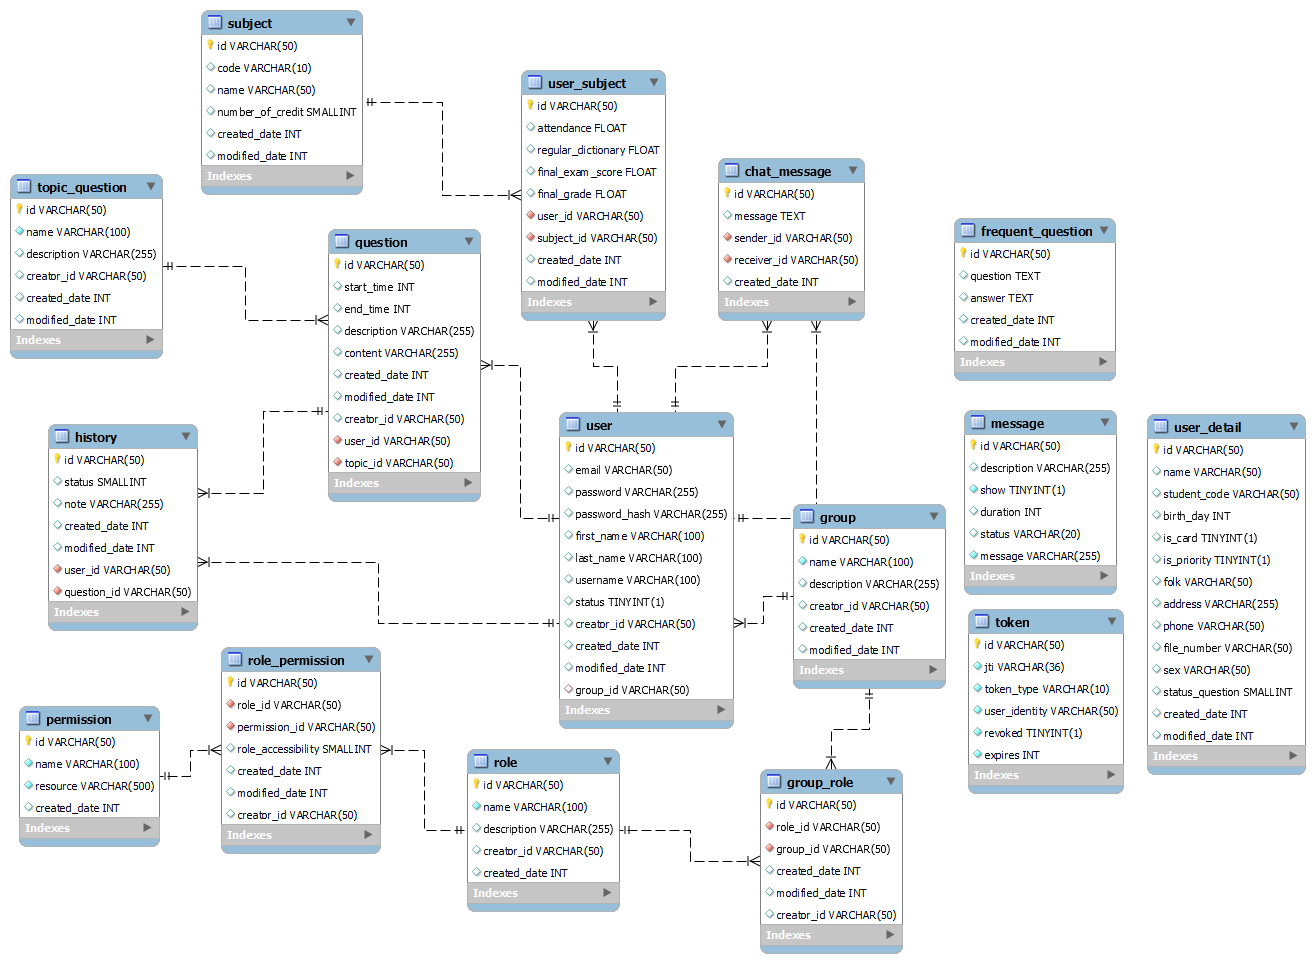
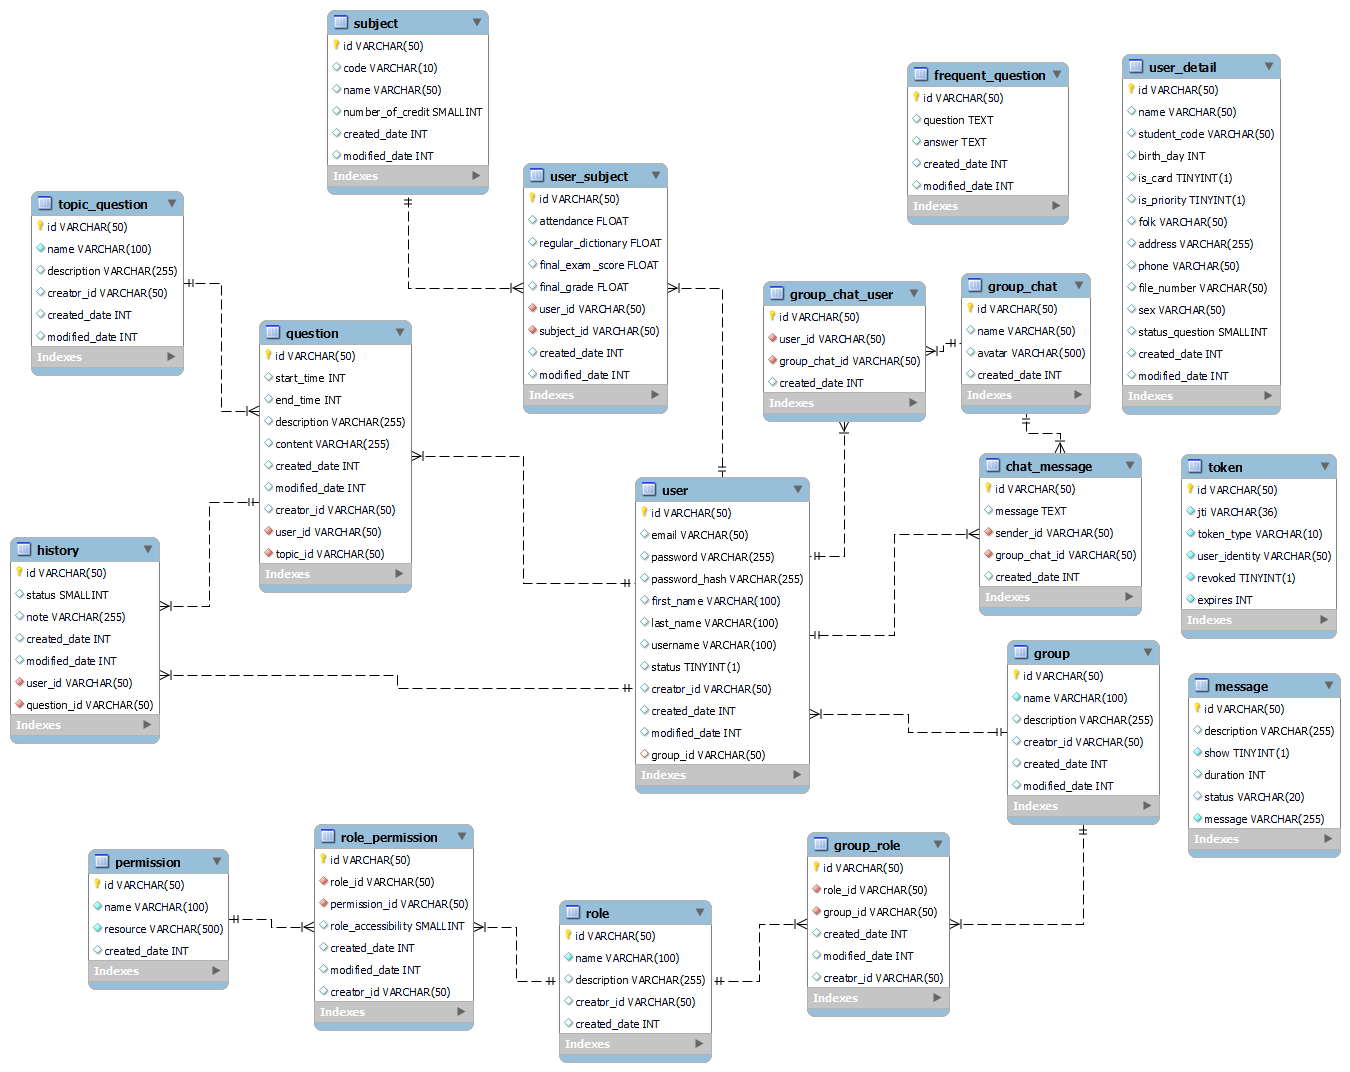
update models chat message

Changed region(s): [[0.0, 0.0, 0.9977, 0.9969]]

diff --git a/app/models.py b/app/models.py
@@ -347,6 +347,26 @@ class UserDetail(db.Model):
 # End Quan Tri sinh vien giao vien
 
 # Start chat message
+class GroupChat(db.Model):
+    __tablename__ = 'group_chat'
+
+    id = db.Column(db.String(50), primary_key=True)
+    name = db.Column(db.String(50))
+    avatar = db.Column(db.String(500))
+    created_date = db.Column(INTEGER(unsigned=True), default=get_timestamp_now(), index=True)
+
+
+class GroupChatUser(db.Model):
+    __tablename__ = 'group_chat_user'
+
+    id = db.Column(db.String(50), primary_key=True)
+    user_id = db.Column(ForeignKey('user.id', ondelete='CASCADE', onupdate='CASCADE'), nullable=False,
+                        index=True)
+    group_chat_id = db.Column(ForeignKey('group_chat.id', ondelete='CASCADE', onupdate='CASCADE'), nullable=False,
+                              index=True)
+    created_date = db.Column(INTEGER(unsigned=True), default=get_timestamp_now(), index=True)
+
+
 class ChatMessage(db.Model):
     __tablename__ = 'chat_message'
 
@@ -354,8 +374,8 @@ class ChatMessage(db.Model):
     message = db.Column(db.TEXT)
     sender_id = db.Column(ForeignKey('user.id', ondelete='CASCADE', onupdate='CASCADE'), nullable=False,
                           index=True)
-    receiver_id = db.Column(ForeignKey('user.id', ondelete='CASCADE', onupdate='CASCADE'), nullable=False,
-                            index=True)
+    group_chat_id = db.Column(ForeignKey('group_chat.id', ondelete='CASCADE', onupdate='CASCADE'), nullable=False,
+                              index=True)
     created_date = db.Column(INTEGER(unsigned=True), default=get_timestamp_now(), index=True)
 
 
